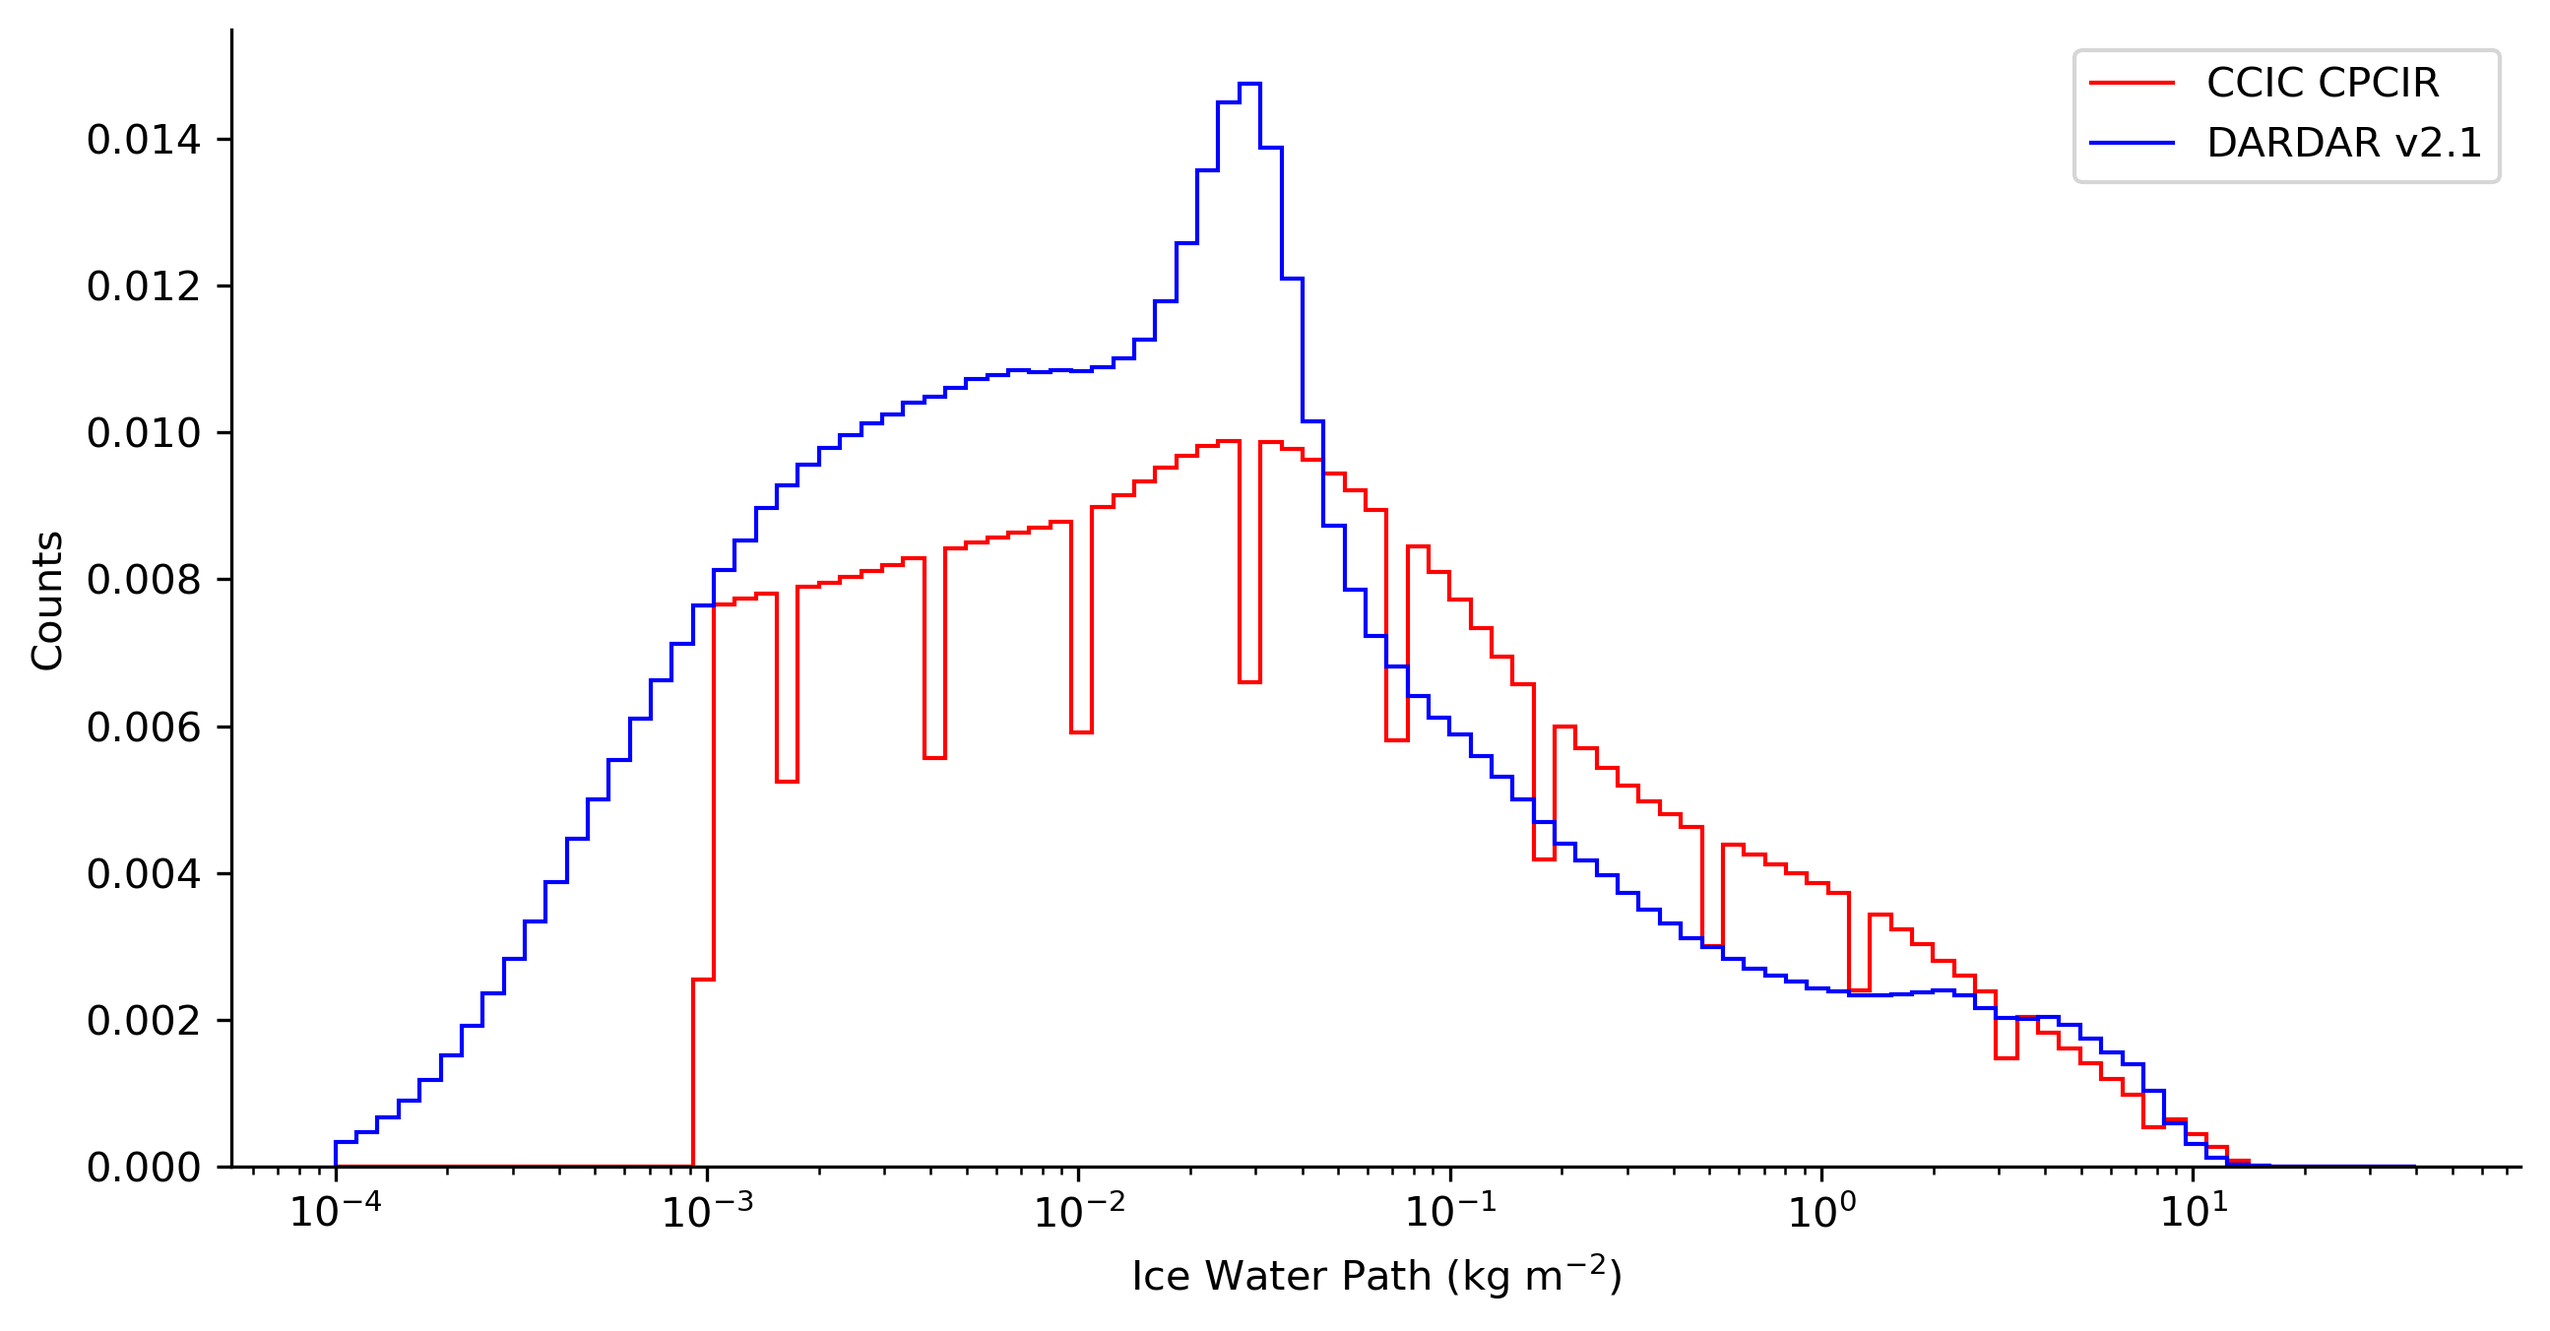
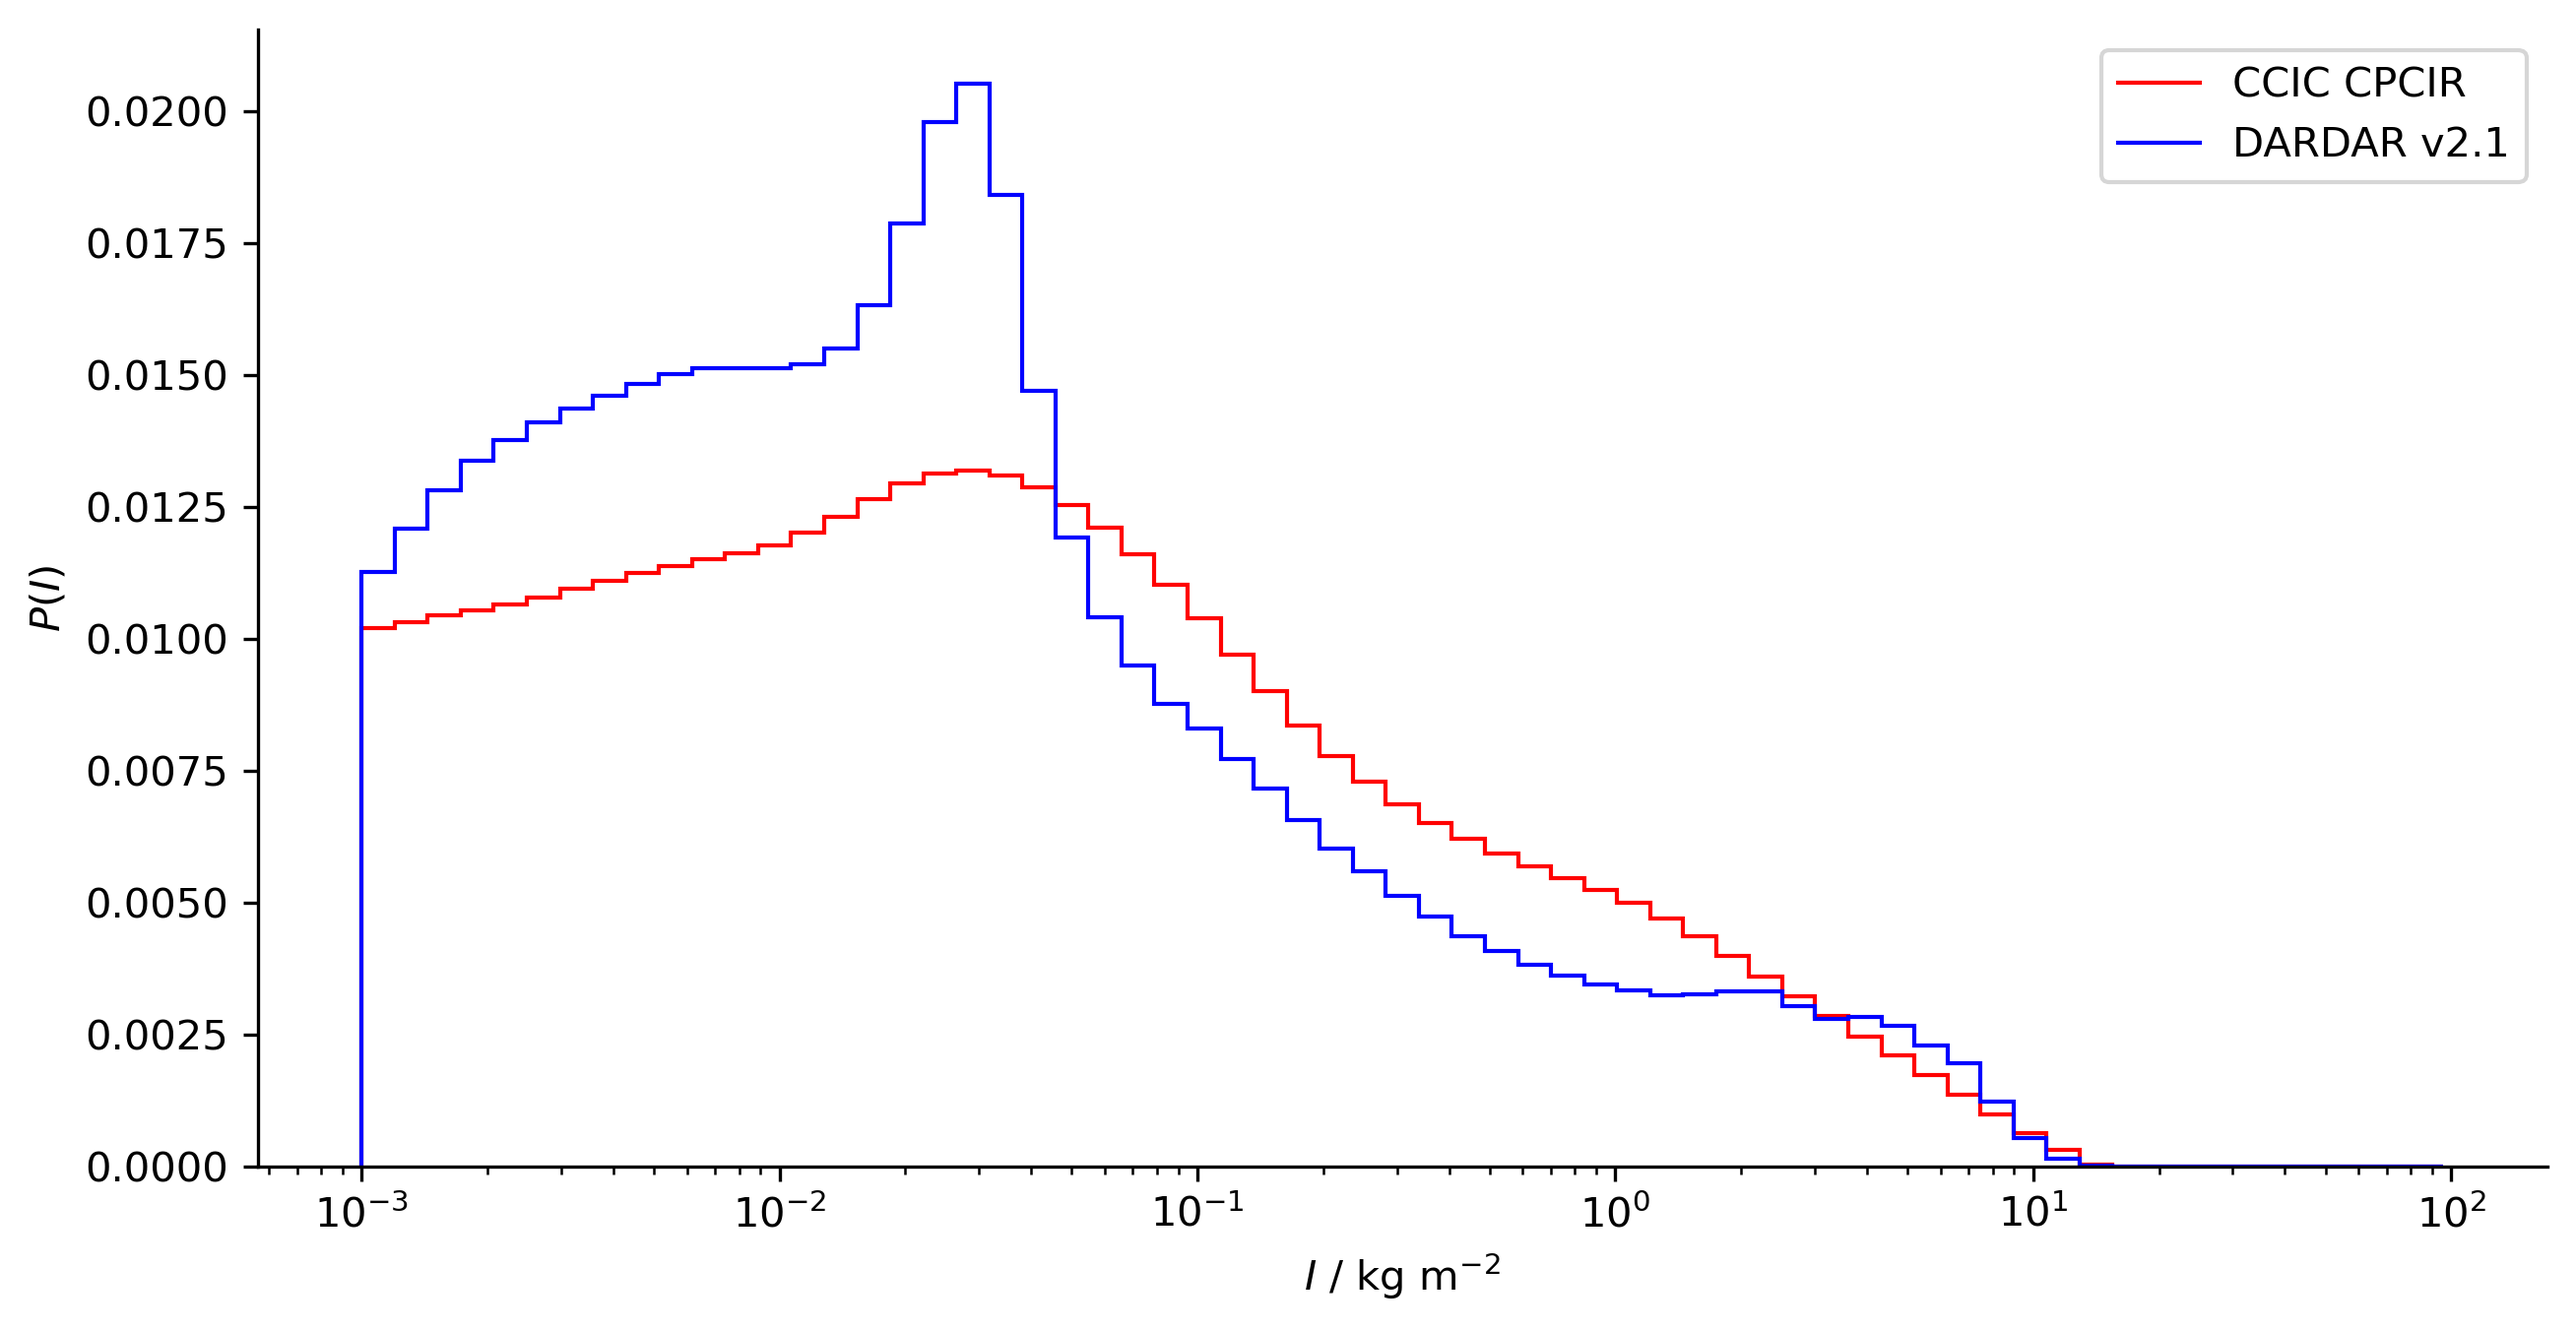
Right bins used for hist

diff --git a/scripts/plot/ccic.py b/scripts/plot/ccic.py
@@ -5,30 +5,38 @@ import numpy as np
 import matplotlib.pyplot as plt
 import s3fs
 
-# %% load dardar 
+# %% load dardar
 dardar_raw = xr.open_dataset("/work/bm1183/m301049/dardar/dardar_iwp_2008.nc")
-mask = (dardar_raw['latitude'] > -20) & (dardar_raw['latitude'] < 20) 
+mask = (dardar_raw["latitude"] > -20) & (dardar_raw["latitude"] < 20)
 dardar_raw = dardar_raw.where(mask)
 
 # %% load ccic
-ds = xr.open_mfdataset("/work/bm1183/m301049/ccic/*.zarr", engine='zarr')
+ds = xr.open_mfdataset("/work/bm1183/m301049/ccic/*.zarr", engine="zarr")
+ds = ds["tiwp"].sel(latitude=slice(20, -20)).load()
 
-# %% get histograms 
+
+# %% get histograms
 hists = {}
-iwp_bins = np.logspace(-4, np.log10(40), 100)
-hists['dardar'], edges = np.histogram(dardar_raw['iwp']*1e-3, bins=iwp_bins, density=False)
-hists['dardar'] = hists['dardar'] / dardar_raw['iwp'].count().values  # Normalize histogram
-hists['ccic'], edges = np.histogram(ds['tiwp'].sel(latitude=slice(20, -20)), bins=iwp_bins, density=False)
-hists['ccic'] = hists['ccic'] /  ds['tiwp'].sel(latitude=slice(20, -20)).size
+bins = np.logspace(-3, 2, 254)[::4]
+hists["dardar"], edges = np.histogram(
+    dardar_raw["iwp"] * 1e-3, bins=bins, density=False
+)
+hists["dardar"] = (
+    hists["dardar"] / dardar_raw["iwp"].count().values
+)  # Normalize histogram
+hists["ccic"], edges = np.histogram(
+    ds.values, bins=bins, density=False
+)
+hists["ccic"] = hists["ccic"] / ds.size
 # %%
 fig, ax = plt.subplots(figsize=(10, 5))
 
-ax.stairs(hists['ccic'], edges, color='red', label='CCIC CPCIR')
-ax.stairs(hists['dardar'], edges, color='blue', label='DARDAR v2.1')
-ax.set_xlabel('Ice Water Path (kg m$^{-2}$)')
-ax.set_ylabel('Counts')
-ax.set_xscale('log')
-ax.spines[['top', 'right']].set_visible(False)
+ax.stairs(hists["ccic"], edges, color="red", label="CCIC CPCIR")
+ax.stairs(hists["dardar"], edges, color="blue", label="DARDAR v2.1")
+ax.set_xlabel("$I$ / kg m$^{-2}$")
+ax.set_ylabel("$P(I)$")
+ax.set_xscale("log")
+ax.spines[["top", "right"]].set_visible(False)
 ax.legend()
-fig.savefig('plots/ccic_histogram.png', bbox_inches='tight', dpi=300)
+fig.savefig("plots/ccic_histogram.png", bbox_inches="tight", dpi=300)
 # %%
